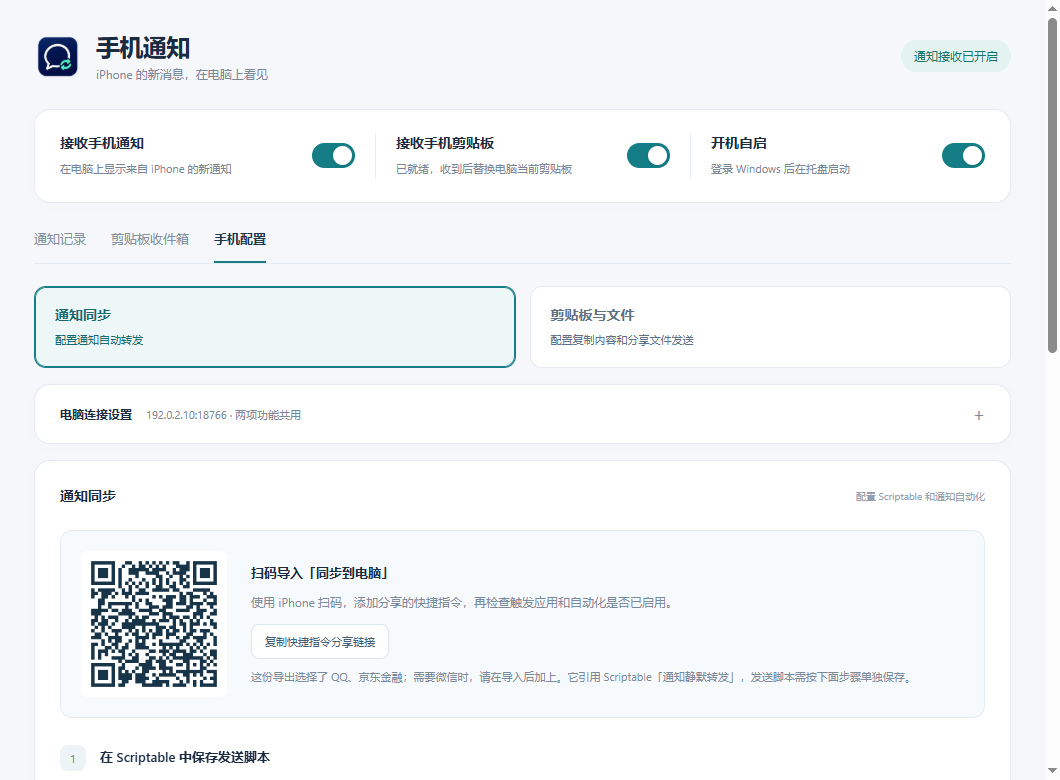
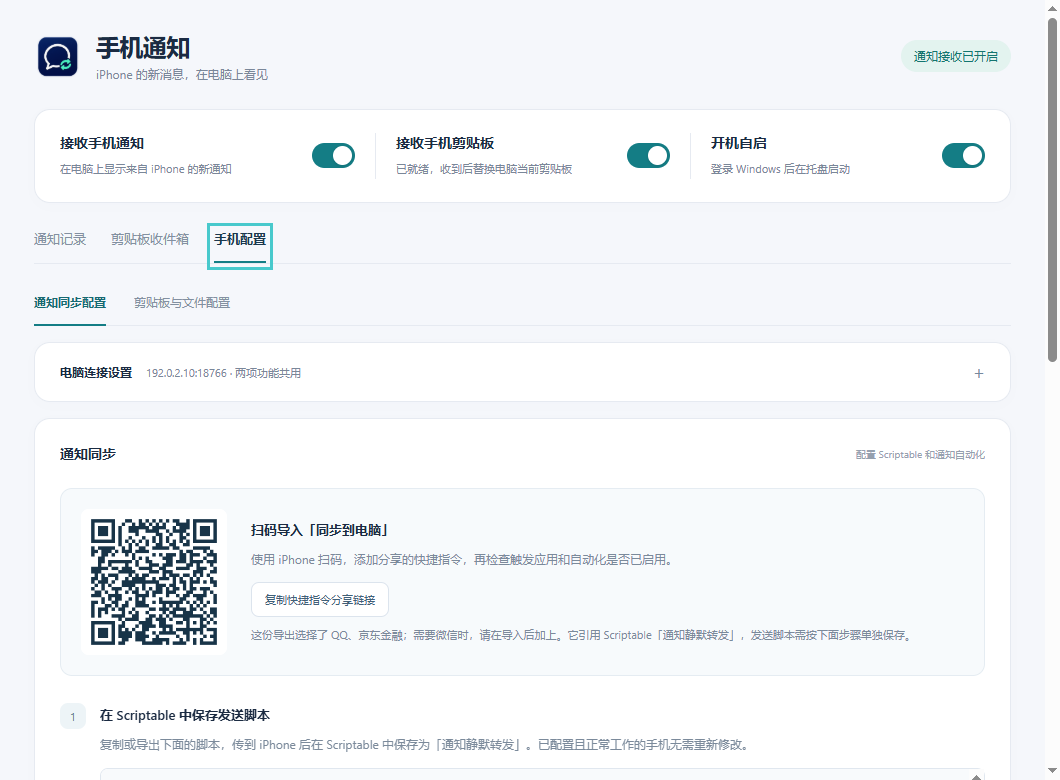
Use understated tabs for phone configuration navigation

diff --git a/public/desktop.css b/public/desktop.css
@@ -23,11 +23,10 @@
 .controls .control+.control{border-left:1px solid var(--border);border-top:0;padding:0 0 0 20px}
 .controls .switch{align-self:center}
 @media(max-width:900px){.controls{grid-template-columns:1fr;gap:18px}.controls .control+.control{border-left:0;border-top:1px solid var(--border);padding:18px 0 0}}
-.setup-navigation{display:grid;grid-template-columns:repeat(2,minmax(0,1fr));gap:14px;margin-top:22px;scroll-margin-top:20px}
-.setup-choice{display:flex;flex-direction:column;gap:7px;text-align:left;padding:18px 20px;border:1px solid var(--border);border-radius:12px;background:#fff;color:#607087}
-.setup-choice strong{font-size:14px;font-weight:600}.setup-choice span{font-size:11px;line-height:1.7}
-.setup-choice:hover{background:#f0f8f8}.setup-choice.active{border-color:var(--accent);background:#edf7f7;color:#176a72;box-shadow:inset 0 0 0 1px var(--accent)}
+.setup-navigation{display:flex;gap:28px;margin-top:18px;border-bottom:1px solid var(--border);scroll-margin-top:20px}
+.setup-choice{padding:10px 0 12px;margin-bottom:-1px;text-align:left;border:0;border-bottom:2px solid transparent;border-radius:0;background:transparent;color:#8390a1;font-size:12px;line-height:1.7}
+.setup-choice:hover{color:#416078}.setup-choice.active{border-bottom-color:var(--accent);color:#176a72;font-weight:600}
 .connection-card{margin-top:16px;padding:0 25px}.connection-card summary{display:flex;align-items:center;gap:14px;cursor:pointer;padding:17px 0;font-size:12px;list-style:none}.connection-card summary::-webkit-details-marker{display:none}
 .connection-card summary:after{content:'+';margin-left:auto;font-size:18px;color:#76899d}.connection-card[open] summary:after{content:'−'}.connection-card summary span{font-size:11px;color:var(--muted)}
 .connection-card .network-settings{margin:0;padding:0 0 18px;border-bottom:0}.setup-panel{margin-top:16px}
-@media(max-width:700px){.setup-choice{padding:14px 12px}.connection-card{padding:0 20px}.connection-card summary{flex-wrap:wrap;gap:6px 12px}.connection-card summary span{overflow-wrap:anywhere}}
+@media(max-width:700px){.setup-navigation{gap:20px}.connection-card{padding:0 20px}.connection-card summary{flex-wrap:wrap;gap:6px 12px}.connection-card summary span{overflow-wrap:anywhere}}

diff --git a/public/desktop.html b/public/desktop.html
@@ -28,8 +28,8 @@
   </section>
   <section id="setup" class="tab-panel" hidden>
     <div class="setup-navigation" role="tablist" aria-label="手机配置项目">
-      <button class="setup-choice active" id="setup-notification-tab" data-setup-tab="notification" role="tab" aria-selected="true" aria-controls="notification-setup-card"><strong>通知同步</strong><span>配置通知自动转发</span></button>
-      <button class="setup-choice" id="setup-clipboard-tab" data-setup-tab="clipboard" role="tab" aria-selected="false" aria-controls="clipboard-setup-card" tabindex="-1"><strong>剪贴板与文件</strong><span>配置复制内容和分享文件发送</span></button>
+      <button class="setup-choice active" id="setup-notification-tab" data-setup-tab="notification" role="tab" aria-selected="true" aria-controls="notification-setup-card">通知同步配置</button>
+      <button class="setup-choice" id="setup-clipboard-tab" data-setup-tab="clipboard" role="tab" aria-selected="false" aria-controls="clipboard-setup-card" tabindex="-1">剪贴板与文件配置</button>
     </div>
     <details class="card connection-card"><summary><strong>电脑连接设置</strong><span id="connection-summary">两项功能共用 · 点击展开</span></summary>
       <div class="network-settings"><h3>电脑局域网地址</h3><p>选择与 iPhone 相通的网卡地址。VPN、虚拟网卡和访客 Wi-Fi 可能无法互通。</p><div class="network-fields"><label>网络地址<select id="network-host" aria-label="电脑局域网地址"></select></label><label>端口<input id="network-port" type="number" min="1024" max="65535" value="18766"></label></div><div class="button-row"><button id="save-network" class="secondary">保存连接设置</button><button id="refresh-network" class="secondary">刷新网络</button><button id="configure-firewall" class="secondary">允许专用局域网访问</button></div><p>防火墙配置需要 Windows 管理员授权，仅开放当前程序和端口，范围为专用网络的本地子网。请先保存连接设置。</p><p id="data-location" class="import-note"></p></div>
